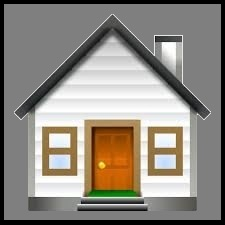
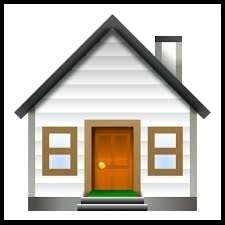
Home Button

diff --git a/04-01-SpringBoot-Music/src/main/resources/templates/layouts/nav.html b/04-01-SpringBoot-Music/src/main/resources/templates/layouts/nav.html
@@ -4,11 +4,11 @@
 
 <html lang="en" xmlns:th="Http:thymeleaf.org">
 	<body>
-		<nav class="navbar navbar-expand-xl navbar-dark greyBackGround" th:fragment="navFragment">
+		<nav class="navbar navbar-expand-xl navbar-dark whiteBackGround" th:fragment="navFragment">
 			<div class="container-fluid">
 			    <div class="navbar-header">
 			    	<a href="/" class="logo-link">
-			    		<img title="Home Page" src="/images/home.jpg" alt="Home" class="navbar-brand bImage"/>
+			    		<img title="Home Page" src="/images/home.png" alt="Home" class="navbar-brand bImage"/>
 					</a>
 			    </div>
 			    <ul class="navbar-nav mr-auto">

diff --git a/04-01-SpringBoot-Music/src/main/resources/templates/indexPage.html b/04-01-SpringBoot-Music/src/main/resources/templates/indexPage.html
@@ -21,7 +21,7 @@
 				</ul>
 	  			<div class="carousel-inner center">
 					<div class="carousel-item cImage active">
-						<img src="../images/Carousels/Home/BRMCLogo.png" />
+						<img src="../images/Carousels/Home/BRMCLogo.jpg" />
 					</div> 
 					<div class="carousel-item cImage">
 						<img src="../images/Carousels/Home/PinkFloydLogo.jpg" />

diff --git a/04-01-SpringBoot-Music/src/main/resources/static/css/Style.css b/04-01-SpringBoot-Music/src/main/resources/static/css/Style.css
@@ -139,16 +139,12 @@ tr:nth-child(odd)
 {
 	width: 35px;
 	height: 35px;
+	horizontal-align: center;
 }
 
-.text-black
+.whiteBackGround
 {
-	color: black;
-}
-
-.greyBackGround
-{
-	background-color: #808080;
+	background-color: #FFFFFF;
 }
 
 .blackBackGround
